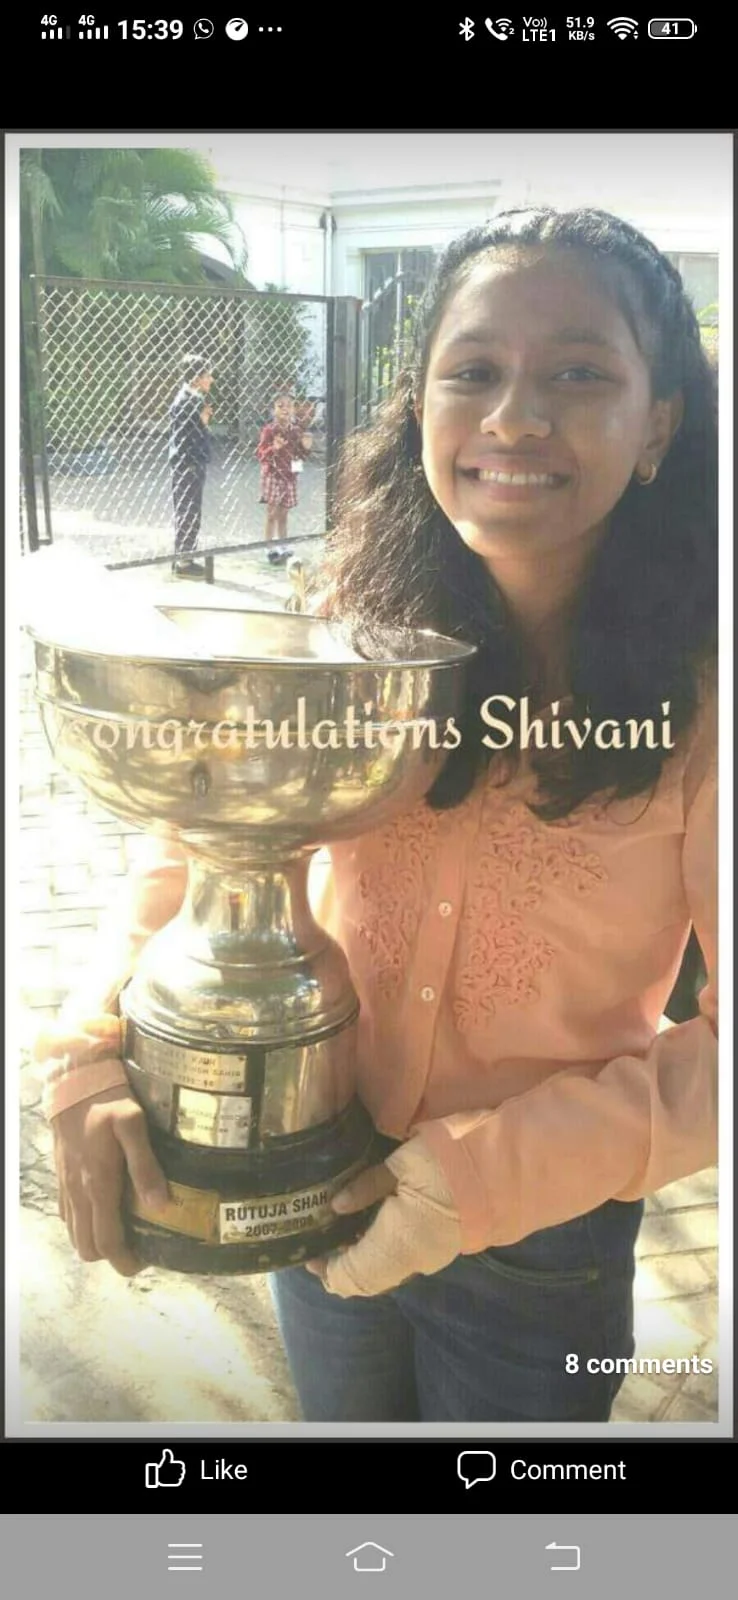
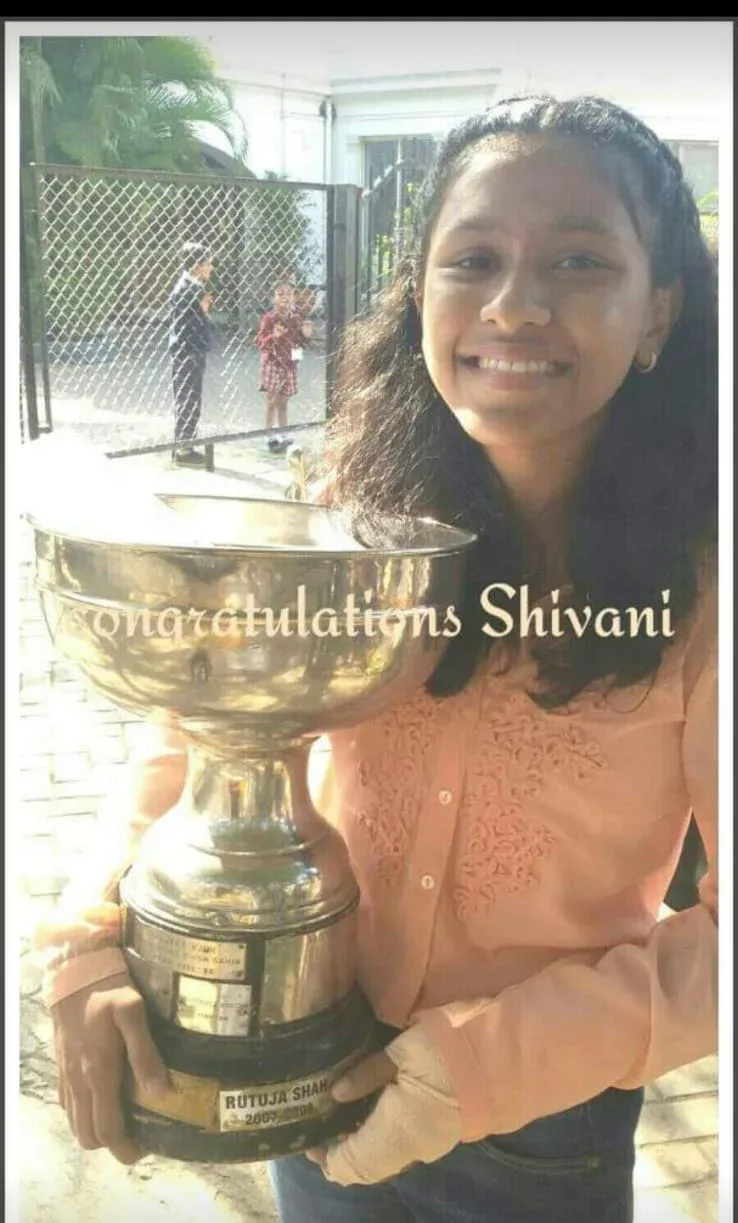
Podcast addition

diff --git a/src/pages/Home.jsx b/src/pages/Home.jsx
@@ -129,63 +129,101 @@ function ColumnChunk({ colIndex, chunkY, pattern, onClick }) {
             height: item.height,
           }}
         >
-          <Link 
-            to={`/work/${item.project.slug}`} 
-            onClick={onClick} 
-            draggable={false} 
-            onDragStart={e => e.preventDefault()}
-            aria-label={`Open ${item.project.title} pillar post`}
-            style={{ display: 'block', width: '100%', height: '100%' }}
-          >
-            <div
-              style={{
-                width: '100%',
-                height: '100%',
-                overflow: 'hidden',
-                backgroundColor: 'var(--border)',
-                position: 'relative',
-                borderRadius: '8px',
-              }}
-              className="project-card-wrapper"
+          {item.project.youtubeUrl ? (
+            <a 
+              href={item.project.youtubeUrl}
+              target="_blank"
+              rel="noopener noreferrer"
+              onClick={onClick} 
+              draggable={false} 
+              onDragStart={e => e.preventDefault()}
+              aria-label={`Watch ${item.project.title} on YouTube`}
+              style={{ display: 'block', width: '100%', height: '100%' }}
             >
-              {(() => {
-                const isVideo = item.cover && VIDEO_RE.test(item.cover);
-                if (isVideo) {
+              <div
+                style={{
+                  width: '100%',
+                  height: '100%',
+                  overflow: 'hidden',
+                  backgroundColor: item.project.noCrop ? '#000000' : 'var(--border)',
+                  position: 'relative',
+                  borderRadius: '8px',
+                }}
+                className="project-card-wrapper"
+              >
+                <img
+                  src={item.cover}
+                  alt={item.project.title}
+                  draggable={false}
+                  style={{
+                    width: '100%',
+                    height: '100%',
+                    objectFit: item.project.noCrop ? 'contain' : 'cover',
+                    pointerEvents: 'none',
+                  }}
+                  className="project-img"
+                />
+              </div>
+            </a>
+          ) : (
+            <Link 
+              to={`/work/${item.project.slug}`} 
+              onClick={onClick} 
+              draggable={false} 
+              onDragStart={e => e.preventDefault()}
+              aria-label={`Open ${item.project.title} pillar post`}
+              style={{ display: 'block', width: '100%', height: '100%' }}
+            >
+              <div
+                style={{
+                  width: '100%',
+                  height: '100%',
+                  overflow: 'hidden',
+                  backgroundColor: item.project.noCrop ? '#000000' : 'var(--border)',
+                  position: 'relative',
+                  borderRadius: '8px',
+                }}
+                className="project-card-wrapper"
+              >
+                {(() => {
+                  const isVideo = item.cover && VIDEO_RE.test(item.cover);
+                  if (isVideo) {
+                    return (
+                      <video
+                        src={item.cover}
+                        autoPlay
+                        loop
+                        muted
+                        playsInline
+                        preload="metadata"
+                        style={{
+                          width: '100%',
+                          height: '100%',
+                          objectFit: item.project.noCrop ? 'contain' : 'cover',
+                          pointerEvents: 'none',
+                        }}
+                        className="project-img"
+                      />
+                    );
+                  }
                   return (
-                    <video
+                    <img
                       src={item.cover}
-                      autoPlay
-                      loop
-                      muted
-                      playsInline
-                      preload="metadata"
+                      alt={item.project.title}
+                      draggable={false}
                       style={{
                         width: '100%',
                         height: '100%',
-                        objectFit: 'cover',
+                        objectFit: item.project.noCrop ? 'contain' : 'cover',
                         pointerEvents: 'none',
                       }}
                       className="project-img"
                     />
                   );
-                }
-                return (
-                  <img
-                    src={item.cover}
-                    alt={item.project.title}
-                    draggable={false}
-                    style={{
-                      width: '100%',
-                      height: '100%',
-                      objectFit: 'cover',
-                      pointerEvents: 'none',
-                    }}
-                    className="project-img"
-                  />
-                );
-              })()}
-            </div>
-          </Link>
+                })()}
+              </div>
+            </Link>
+          )}
         </div>
       ))}
     </div>

diff --git a/src/data/projects.js b/src/data/projects.js
@@ -352,5 +352,21 @@ export const projects = [
       '/images/overcoming-fears/dog-6.webp'
     ],
     description: "The moment we decide that what we want is more important than what we are afraid of.\n\nOvercoming fear is not about the absence of terror, but the courage to take the step anyway. It is the trembling leap into the unknown that redefines our limits. Each fear conquered becomes a stepping stone to a stronger, more authentic version of ourselves, proving that our boundaries are often just illusions."
+  },
+  {
+    id: 13,
+    slug: 'podcast',
+    title: 'Podcast',
+    category: 'Stage 13',
+    cover: '/images/podcast/podcast-1.webp',
+    youtubeUrl: 'https://www.youtube.com/watch?v=nUVwA5zdt6I',
+    noCrop: true,
+    gridImages: [
+      '/images/podcast/podcast-1.webp',
+    ],
+    blogImages: [
+      '/images/podcast/podcast-1.webp',
+    ],
+    description: "A conversation that goes beyond the surface. Sharing stories, insights, and perspectives that inspire and connect."
   }
 ];

diff --git a/src/components/Navbar.jsx b/src/components/Navbar.jsx
@@ -150,7 +150,7 @@ export default function Navbar() {
                 zIndex: 999,
               }}
             >
-              {projects.map(proj => (
+              {projects.filter(proj => !proj.youtubeUrl).map(proj => (
                 <Link
                   key={proj.id}
                   to={`/work/${proj.slug}`}
@@ -259,7 +259,7 @@ export default function Navbar() {
                 <span style={{ fontSize: '0.65rem', letterSpacing: '0.25em', color: 'var(--fg-dim)', textTransform: 'uppercase', marginBottom: '8px' }}>
                   PILLARS
                 </span>
-                {projects.map(proj => (
+                {projects.filter(proj => !proj.youtubeUrl).map(proj => (
                   <Link
                     key={proj.id}
                     to={`/work/${proj.slug}`}
